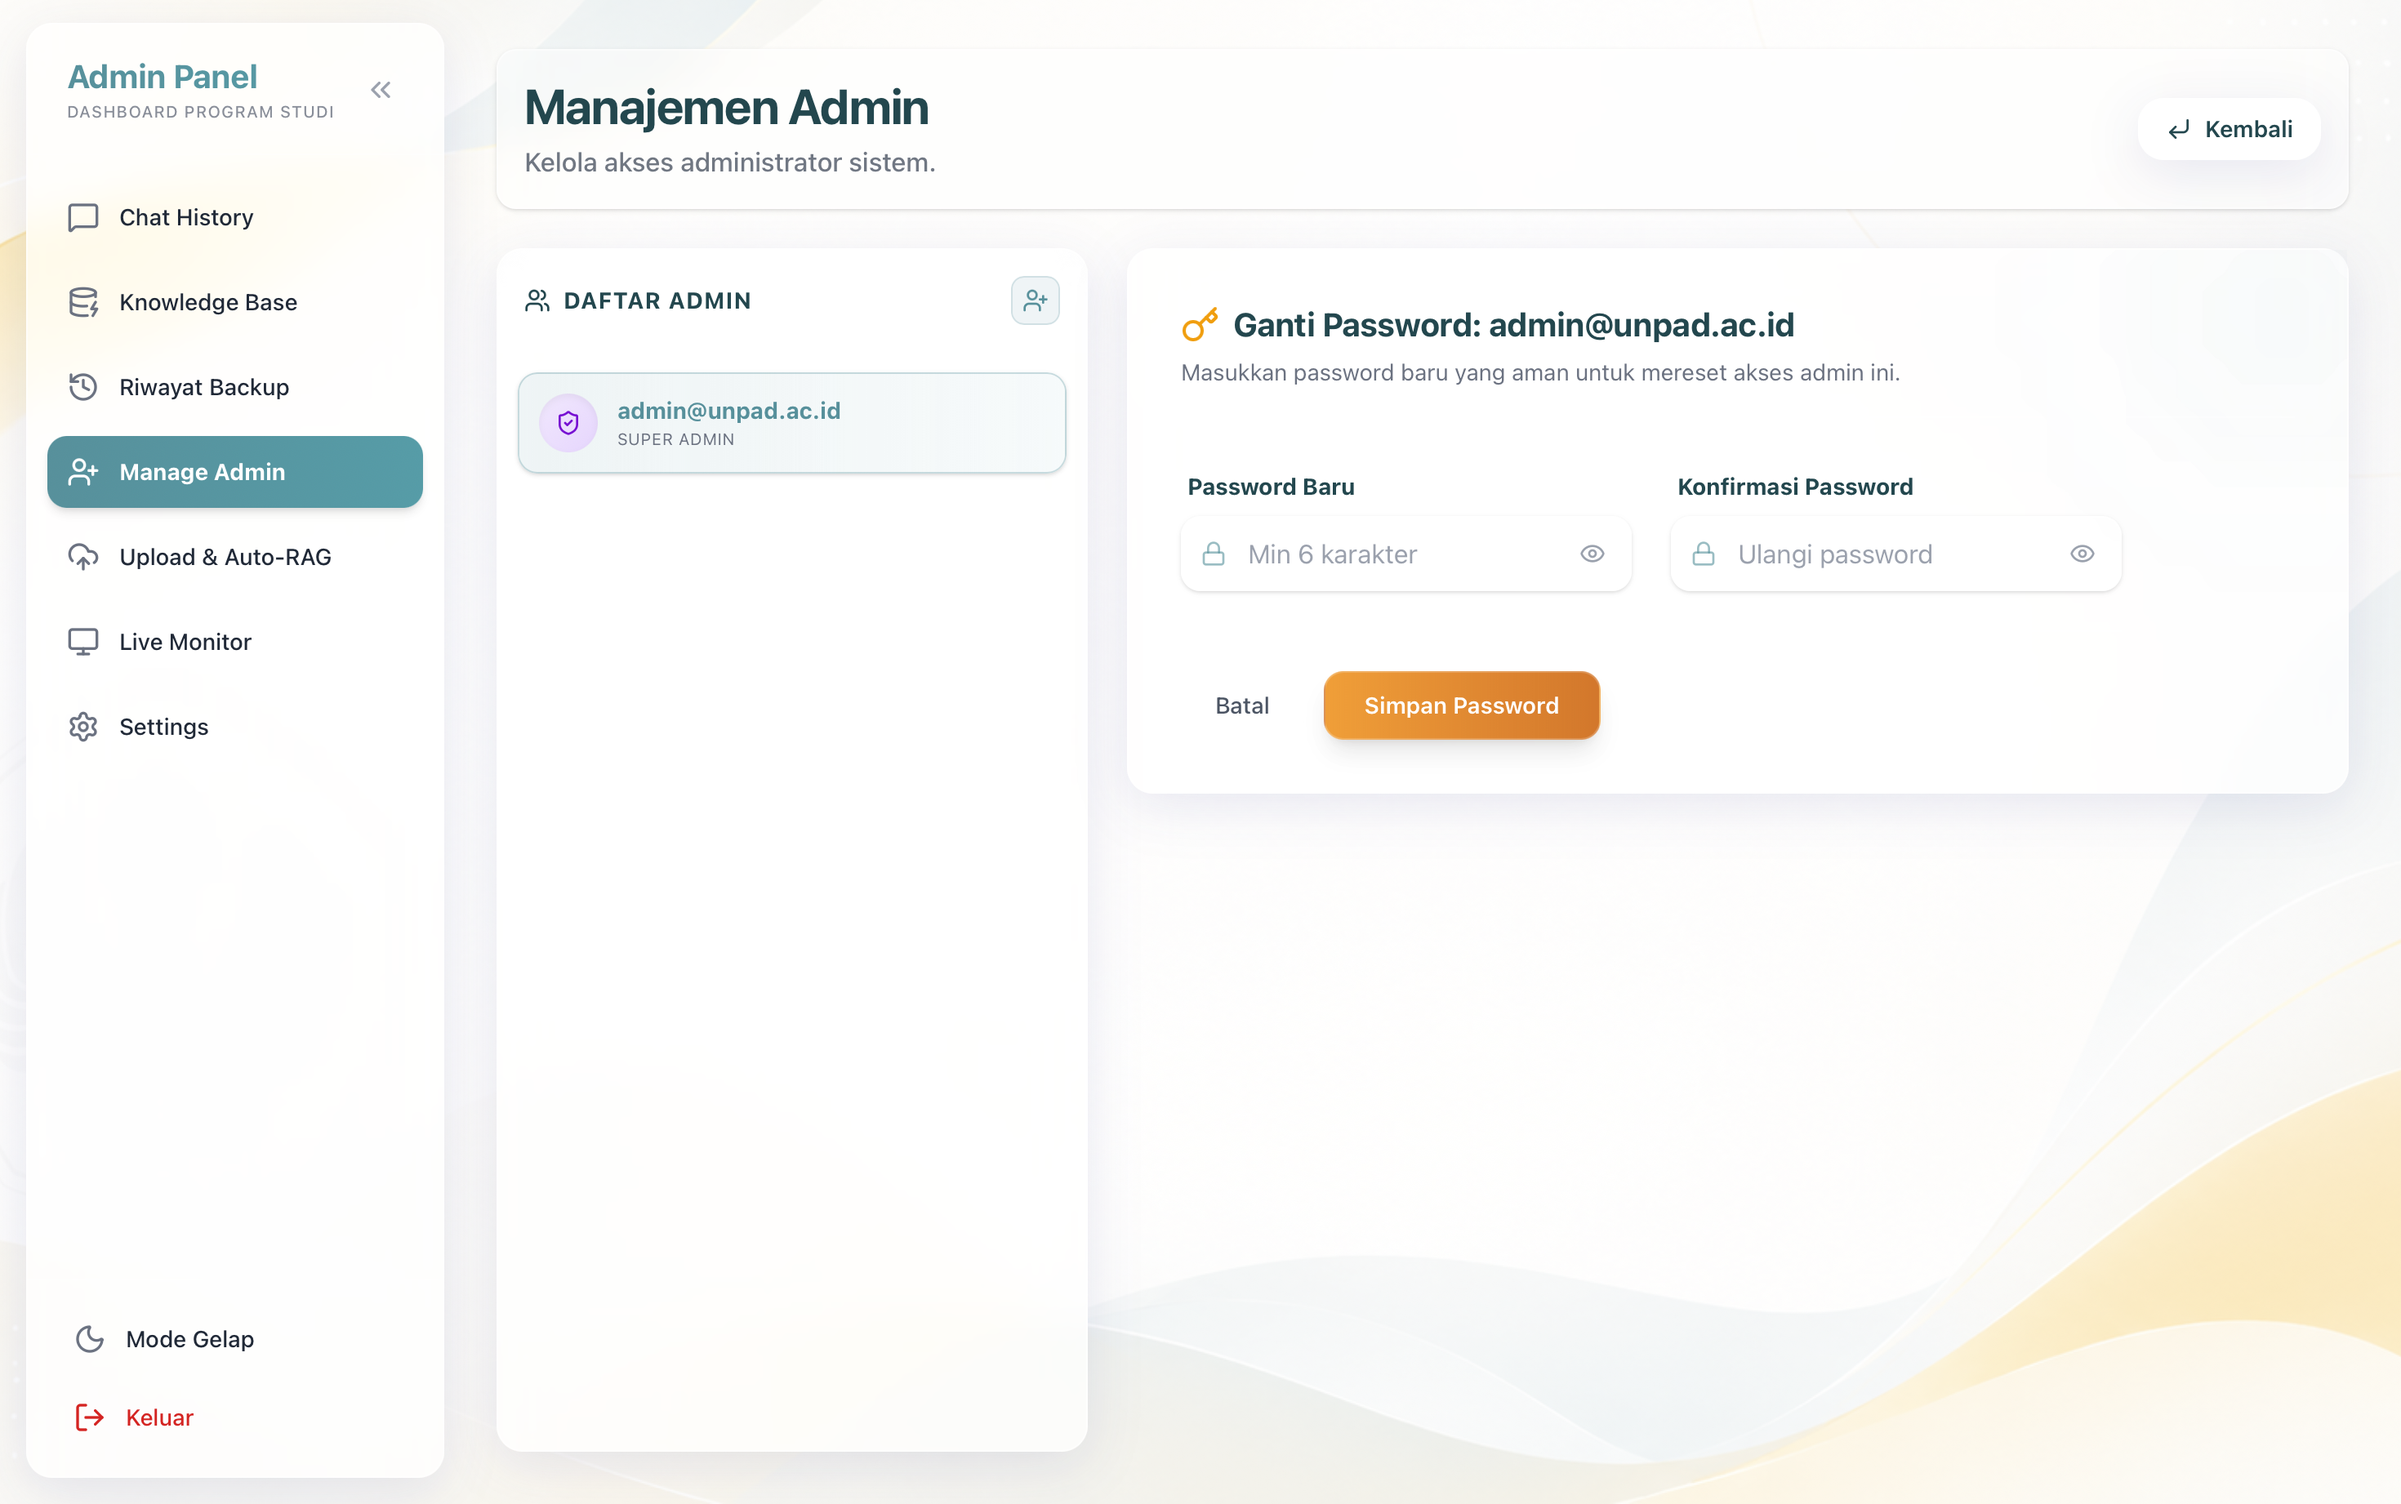
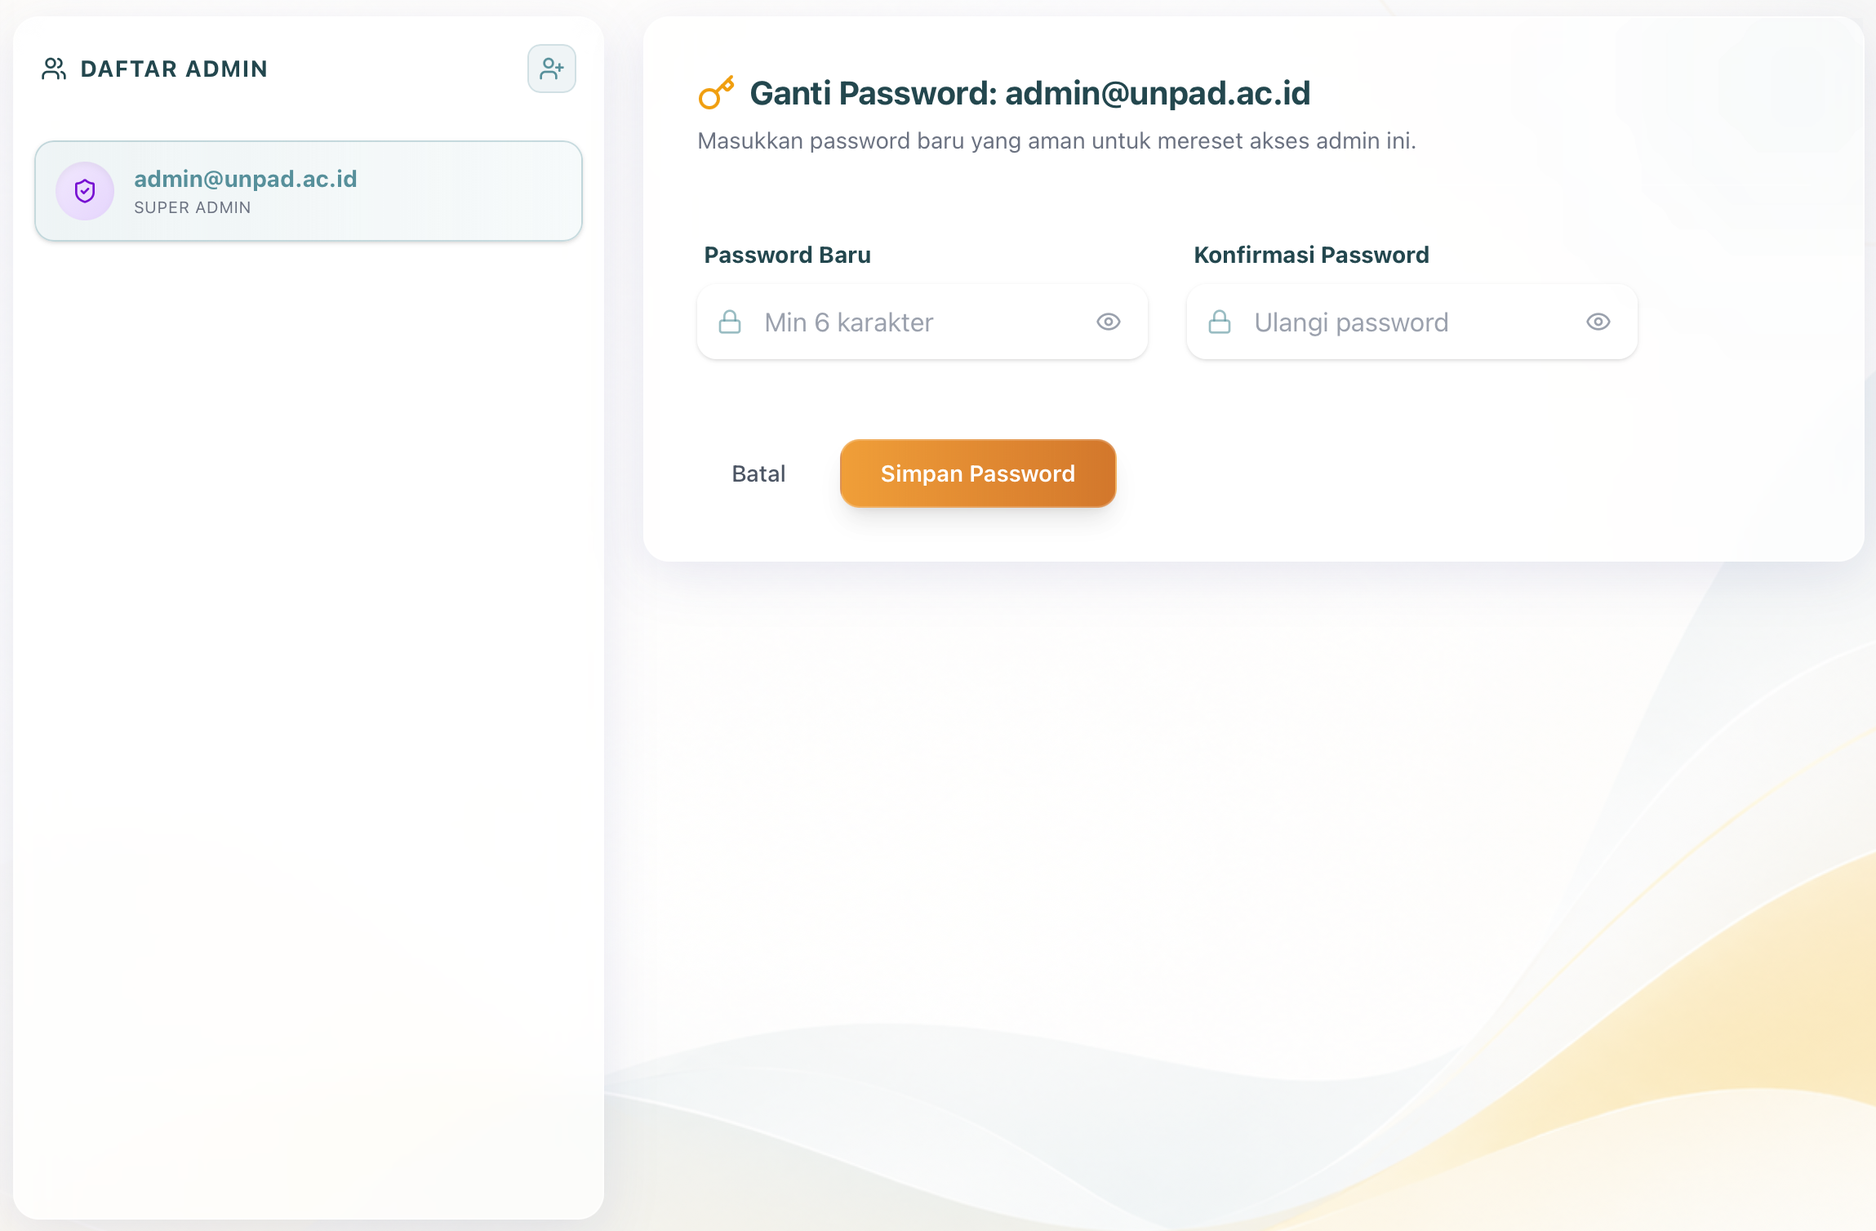
docs: finalize readme image captions and add missing admin screenshots

diff --git a/README.md b/README.md
@@ -26,12 +26,12 @@ Sistem ini dibangun dengan arsitektur *microservices* berkinerja tinggi yang mem
 ### 1. Antarmuka Publik & Autentikasi
 | Chatbot Publik | Panel Login Admin |
 | :---: | :---: |
-| ![Chatbot UI](./docs/screenshots/chatbot.png) <br> *[Tolong Screenshot: Halaman interaksi chat publik dengan AI secara langsung]* | ![Login UI](./docs/screenshots/login-admin.png) <br> *[Tolong Screenshot: Halaman Login Admin dengan desain glassmorphism]* |
+| ![Chatbot UI](./docs/screenshots/chatbot.png) <br> *Halaman interaksi chat publik dengan AI secara langsung* | ![Login UI](./docs/screenshots/login-admin.png) <br> *Halaman Login Admin dengan desain glassmorphism* |
 
 ### 2. Panel Kontrol Administrator (Dashboard)
 | Manajemen Pengetahuan (Knowledge Base) | Manajemen Admin |
 | :---: | :---: |
-| ![Knowledge Base](./docs/screenshots/knowledge-base.png) <br> *[Tolong Screenshot: Tabel kelola seluruh data pengetahuan]* | ![Manage Admin](./docs/screenshots/manage-admin.png) <br> *[Tolong Screenshot: Halaman daftar dan pembuatan Admin baru]* |
+| ![Knowledge Base](./docs/screenshots/knowledge-base.png) <br> *Tabel kelola seluruh data pengetahuan* | ![Manage Admin](./docs/screenshots/manage-admin.png) <br> *Halaman daftar dan pembuatan Admin baru* |
 
 ---
 
@@ -158,7 +158,7 @@ Jika Anda menggunakan WordPress sebagai website utama institusi, kami menyediaka
 
 | Proses Upload Plugin | Aktivasi Plugin |
 | :---: | :---: |
-| ![Upload Plugin](./docs/screenshots/wp-upload.png) <br> *[Tolong Screenshot: Halaman Upload Plugin WordPress menunjuk ke plugin.zip]* | ![Aktivasi Plugin](./docs/screenshots/wp-activate.png) <br> *[Tolong Screenshot: Daftar plugin WordPress dengan tombol Activate/Deactivate]* |
+| ![Upload Plugin](./docs/screenshots/wp-upload.png) <br> *Halaman Upload Plugin WordPress menunjuk ke plugin.zip* | ![Aktivasi Plugin](./docs/screenshots/wp-activate.png) <br> *Daftar plugin WordPress dengan tombol Activate/Deactivate* |
 
 ### B. Konfigurasi Plugin (Penting!)
 1. Setelah plugin aktif, perhatikan sidebar kiri WordPress Anda. Akan muncul menu navigasi baru bernama **Chatbot**.
@@ -169,7 +169,7 @@ Jika Anda menggunakan WordPress sebagai website utama institusi, kami menyediaka
 
 | Pengaturan URL Chatbot di WP | Tampilan Widget di Halaman Web Publik |
 | :---: | :---: |
-| ![WP Settings](./docs/screenshots/wp-settings.png) <br> *[Tolong Screenshot: Halaman form Pengaturan Chatbot di WP Admin yang berisi input URL]* | ![Widget UI](./docs/screenshots/wp-widget.png) <br> *[Tolong Screenshot: Gelembung/Bubble icon chatbot di pojok kanan bawah halaman web utama WordPress]* |
+| ![WP Settings](./docs/screenshots/wp-settings.png) <br> *Halaman form Pengaturan Chatbot di WP Admin yang berisi input URL* | ![Widget UI](./docs/screenshots/wp-widget.png) <br> *Gelembung/Bubble icon chatbot di pojok kanan bawah halaman web utama WordPress* |
 
 ---
 
@@ -185,7 +185,7 @@ Halaman login dilindungi oleh sistem token JWT yang aman.
 
 | Halaman Login |
 | :---: |
-| ![Halaman Login](./docs/screenshots/login-admin-full.png) <br> *[Tolong Screenshot: Halaman form login (/Admin) dengan tampilan utuh]* |
+| ![Halaman Login](./docs/screenshots/login-admin-full.png) <br> *Halaman form login (/Admin) dengan tampilan utuh* |
 
 ### B. Cara Membuat Akun Admin Baru (Manage Admin)
 Untuk menambah anggota tim yang bisa mengelola chatbot:
@@ -198,7 +198,7 @@ Untuk menambah anggota tim yang bisa mengelola chatbot:
 
 | Halaman Manage Admin | Form Tambah Admin |
 | :---: | :---: |
-| ![Daftar Admin](./docs/screenshots/admin-list.png) <br> *[Tolong Screenshot: Tabel daftar akun admin]* | ![Tambah Admin](./docs/screenshots/admin-add.png) <br> *[Tolong Screenshot: Modal/Popup penambahan admin baru]* |
+| ![Daftar Admin](./docs/screenshots/admin-list.png) <br> *Tabel daftar akun admin* | ![Tambah Admin](./docs/screenshots/admin-add.png) <br> *Modal/Popup penambahan admin baru* |
 
 ### C. Kelola Basis Pengetahuan (Knowledge Base)
 Menu ini adalah "otak" dari chatbot. Apa pun yang tertulis di sini adalah apa yang akan dijawab oleh AI.
@@ -209,7 +209,7 @@ Menu ini adalah "otak" dari chatbot. Apa pun yang tertulis di sini adalah apa ya
 
 | Halaman Knowledge Base | Form Input Pengetahuan |
 | :---: | :---: |
-| ![Tabel Pengetahuan](./docs/screenshots/knowledge-base.png) <br> *[Tolong Screenshot: Halaman tabel utama Knowledge Base]* | ![Form Pengetahuan](./docs/screenshots/knowledge-form.png) <br> *[Tolong Screenshot: Modal form untuk mengetik Judul, Kategori, Isi]* |
+| ![Tabel Pengetahuan](./docs/screenshots/knowledge-base.png) <br> *Halaman tabel utama Knowledge Base* | ![Form Pengetahuan](./docs/screenshots/knowledge-form.png) <br> *Modal form untuk mengetik Judul, Kategori, Isi* |
 
 ### D. Upload Dokumen Cerdas (File PDF/TXT)
 Jika Anda memiliki dokumen pedoman panjang (PDF/TXT) dan malas mengetiknya satu per satu:
@@ -220,7 +220,7 @@ Jika Anda memiliki dokumen pedoman panjang (PDF/TXT) dan malas mengetiknya satu 
 
 | Fitur Upload Dokumen | Tombol Update RAG |
 | :---: | :---: |
-| ![Upload PDF](./docs/screenshots/upload-pdf.png) <br> *[Tolong Screenshot: Jendela dialog Upload Dokumen PDF]* | ![Update RAG](./docs/screenshots/update-rag.png) <br> *[Tolong Screenshot: Soroti/Tunjuk tombol "Update RAG" yang sedang berputar/memproses]* |
+| ![Upload PDF](./docs/screenshots/upload-pdf.png) <br> *Jendela dialog Upload Dokumen PDF* | ![Update RAG](./docs/screenshots/update-rag.png) <br> *Soroti/Tunjuk tombol "Update RAG" yang sedang berputar/memproses* |
 
 ### E. Manajemen Backup & Restore
 Setiap kali Anda mengunggah dokumen baru, sistem akan **otomatis melakukan backup** untuk berjaga-jaga. Anda juga dapat mengelolanya secara mandiri:
@@ -232,7 +232,7 @@ Setiap kali Anda mengunggah dokumen baru, sistem akan **otomatis melakukan backu
 
 | Riwayat Backup |
 | :---: |
-| ![Halaman Backup](./docs/screenshots/backup-history.png) <br> *[Tolong Screenshot: Tabel Backup History dengan tombol Restore dan Download]* |
+| ![Halaman Backup](./docs/screenshots/backup-history.png) <br> *Tabel Backup History dengan tombol Restore dan Download* |
 
 ### F. Pemantauan Langsung (Live Monitor)
 Ingin tahu siapa saja yang sedang berinteraksi dengan Chatbot?
@@ -241,7 +241,7 @@ Ingin tahu siapa saja yang sedang berinteraksi dengan Chatbot?
 
 | Halaman Live Monitor |
 | :---: |
-| ![Live Monitor](./docs/screenshots/live-monitor.png) <br> *[Tolong Screenshot: Halaman Live Monitor yang menunjukkan aktivitas grafik/koneksi aktif]* |
+| ![Live Monitor](./docs/screenshots/live-monitor.png) <br> *Halaman Live Monitor yang menunjukkan aktivitas grafik/koneksi aktif* |
 
 ---
 
